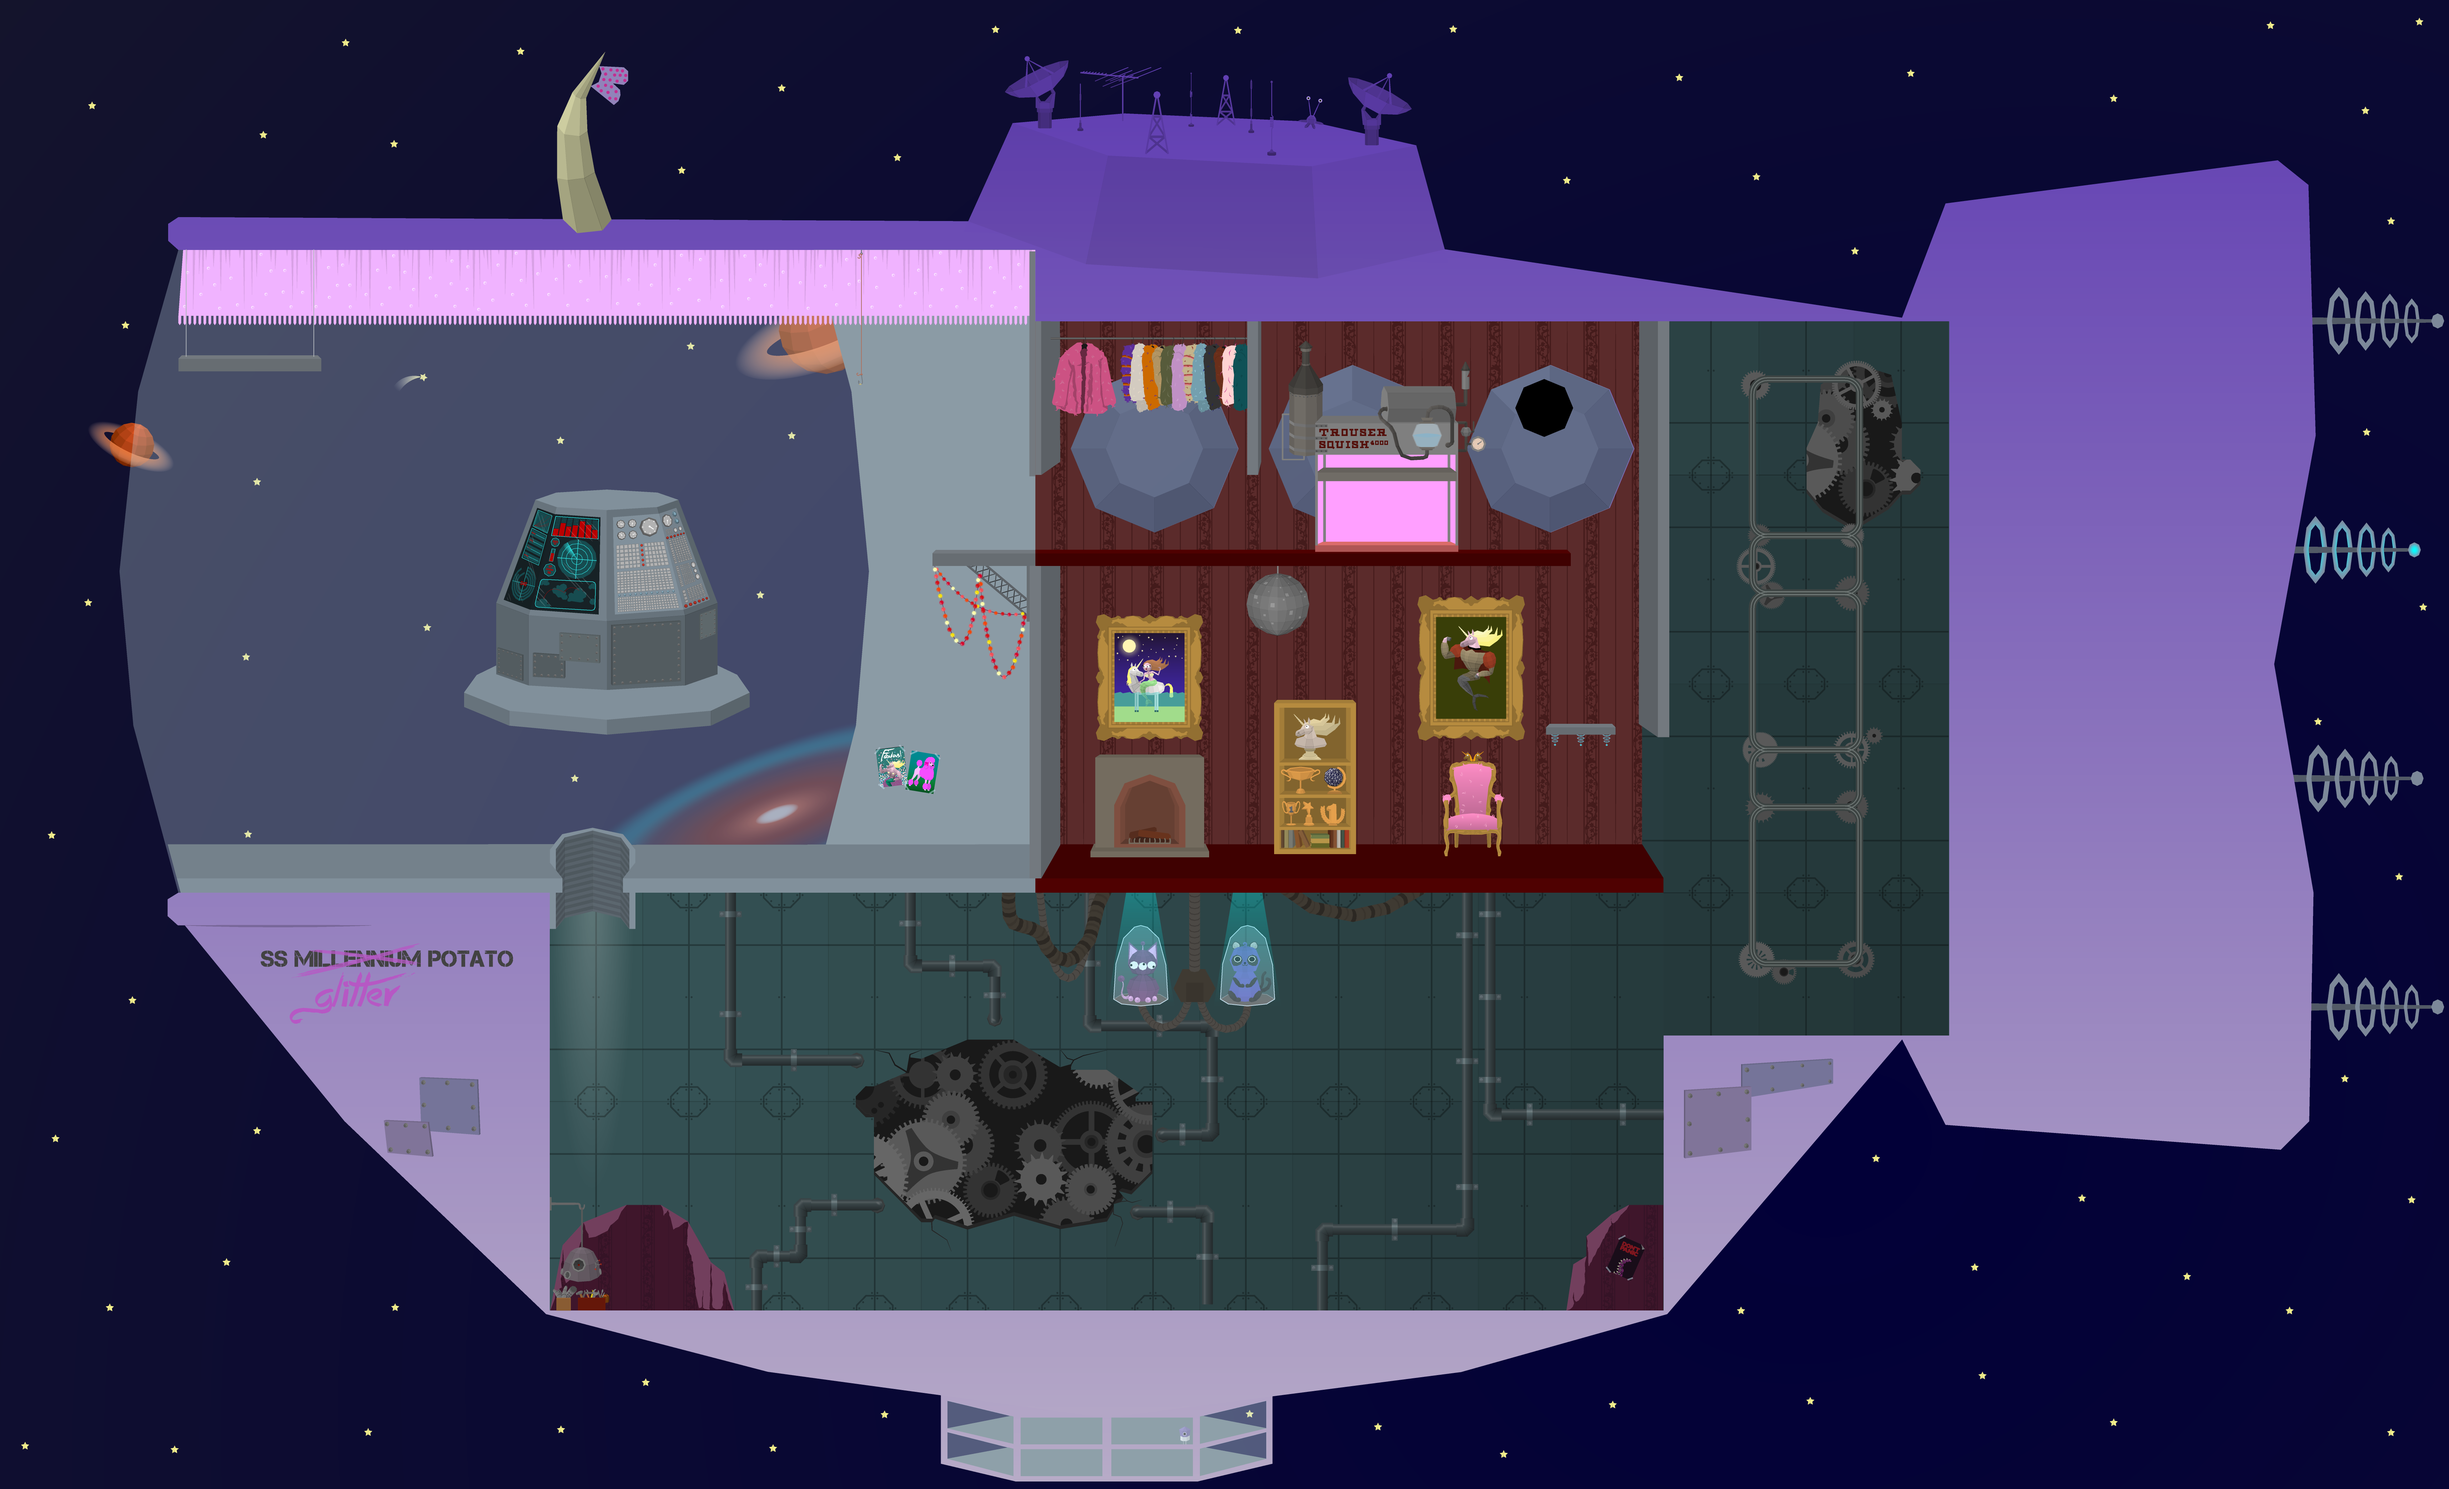
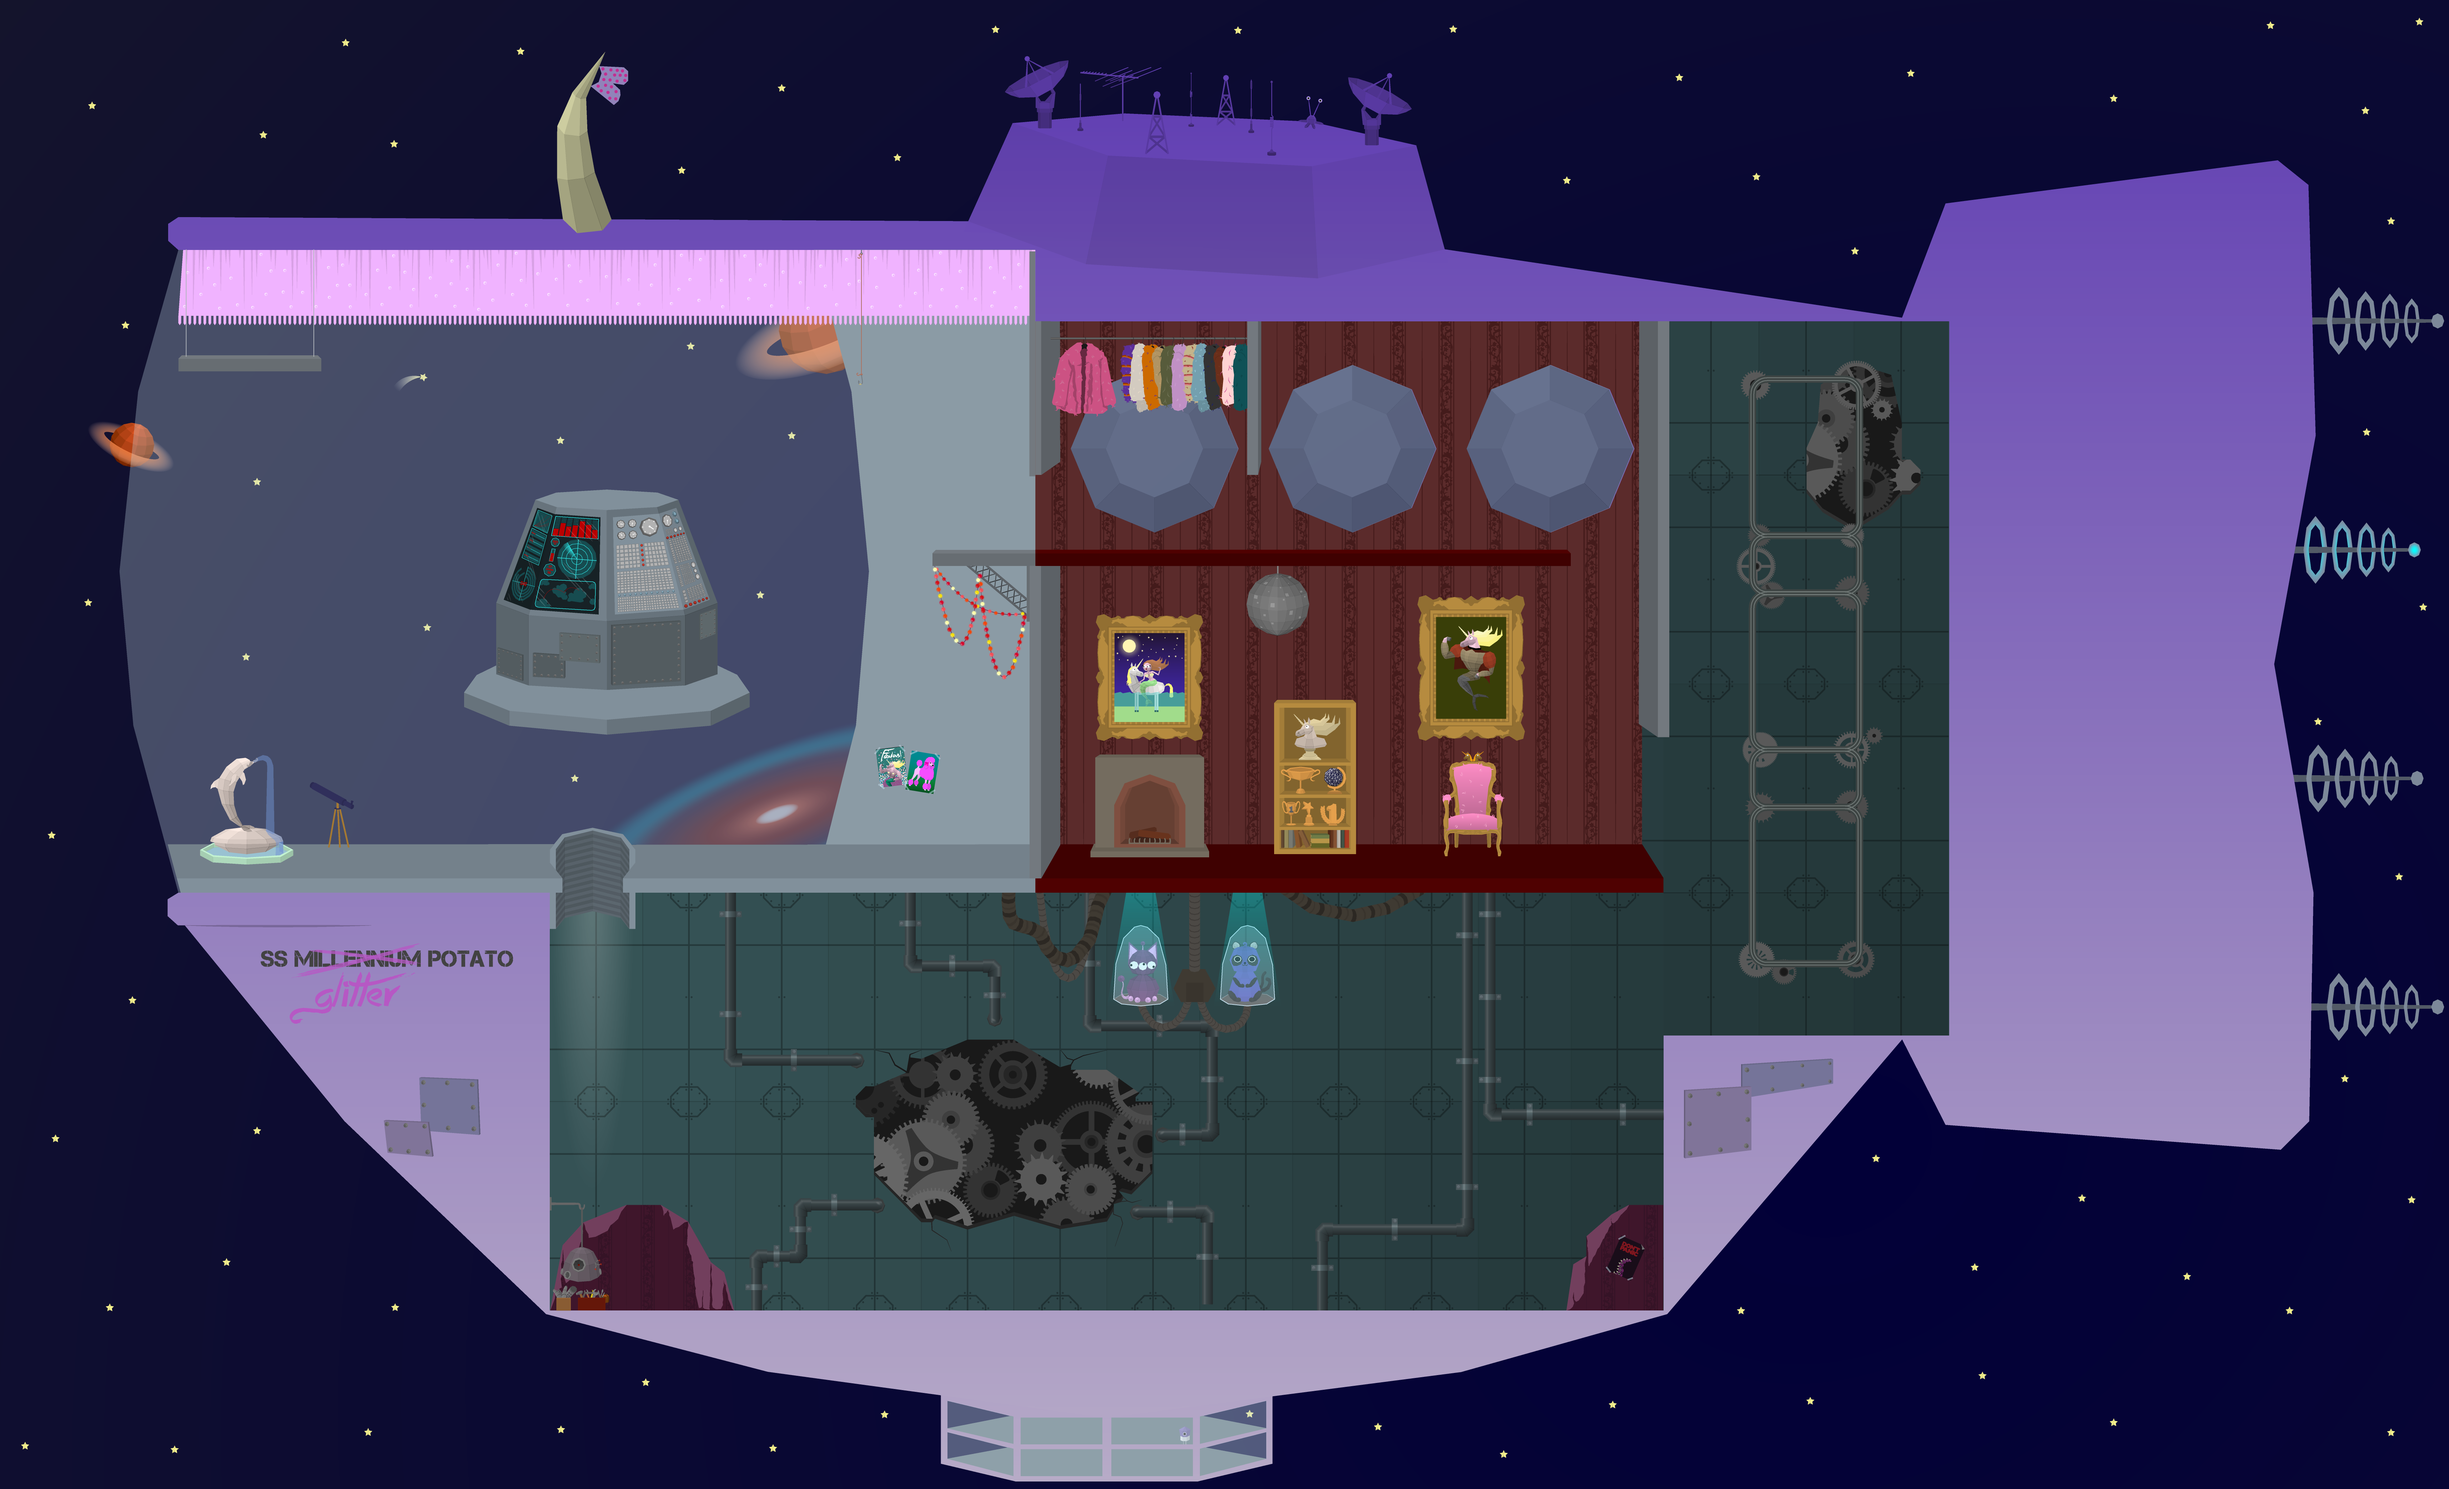
Artwork, platforms, and particles for 2.4

Changed region(s): [[0.4991, 0.2494, 0.6551, 0.3741], [0.0624, 0.4988, 0.156, 0.5923], [0.6239, 0.4676, 0.6551, 0.4988]]

diff --git a/app/l10n-templates/areas/2-spaceship/2.4-glitch-access.html b/app/l10n-templates/areas/2-spaceship/2.4-glitch-access.html
@@ -18,13 +18,16 @@
     </style>
   </head>
   <body>
-    <div class="floor" data-actor="mover 1 repeat linear" data-path="125 920, 275 920, 275 700, 125 700, 125 920"></div>
-    <div class="floor" data-actor="mover 1 repeat linear" data-path="275 700, 125 700, 125 920, 275 920, 275 700"></div>
+    <div class="moving-platform-space-rickety" data-actor="rickety-space-platform 1 repeat linear" data-path="125 920, 275 920, 275 700, 125 700, 125 920"></div>
+    <div class="moving-platform-space-rickety" data-actor="rickety-space-platform 1 repeat linear" data-path="275 700, 125 700, 125 920, 275 920, 275 700"></div>
 
-    <div class="floor" data-actor="mover 1 repeat linear" data-path="125 620, 275 620, 275 400, 125 400, 125 620"></div>
-    <div class="floor" data-actor="mover 1 repeat linear" data-path="275 400, 125 400, 125 620, 275 620, 275 400"></div>
+    <div class="moving-platform-space-rickety" data-actor="rickety-space-platform 1 repeat linear" data-path="125 620, 275 620, 275 400, 125 400, 125 620"></div>
+    <div class="moving-platform-space-rickety" data-actor="rickety-space-platform 1 repeat linear" data-path="275 400, 125 400, 125 620, 275 620, 275 400"></div>
 
-    <div class="floor" data-actor="mover 1 repeat linear" data-path="125 320, 275 320, 275 100, 125 100, 125 320"></div>
-    <div class="floor" data-actor="mover 1 repeat linear" data-path="275 100, 125 100, 125 320, 275 320, 275 100"></div>
+    <div class="moving-platform-space-rickety" data-actor="rickety-space-platform 1 repeat linear" data-path="125 320, 275 320, 275 100, 125 100, 125 320"></div>
+    <div class="moving-platform-space-rickety" data-actor="rickety-space-platform 1 repeat linear" data-path="275 100, 125 100, 125 320, 275 320, 275 100"></div>
+
+    <img src="/content/2-spaceship/creepy-jars.png" style="position: absolute; z-index: 120; bottom: 0; left: 45px; width: 68px; height: 42px" data-ignore>
+    <img src="/content/2-spaceship/davy-cameron.png" style="position: absolute; bottom: 0; right: 0; width: 91px; height: 40px;" data-ignore>
   </body>
 </html>
